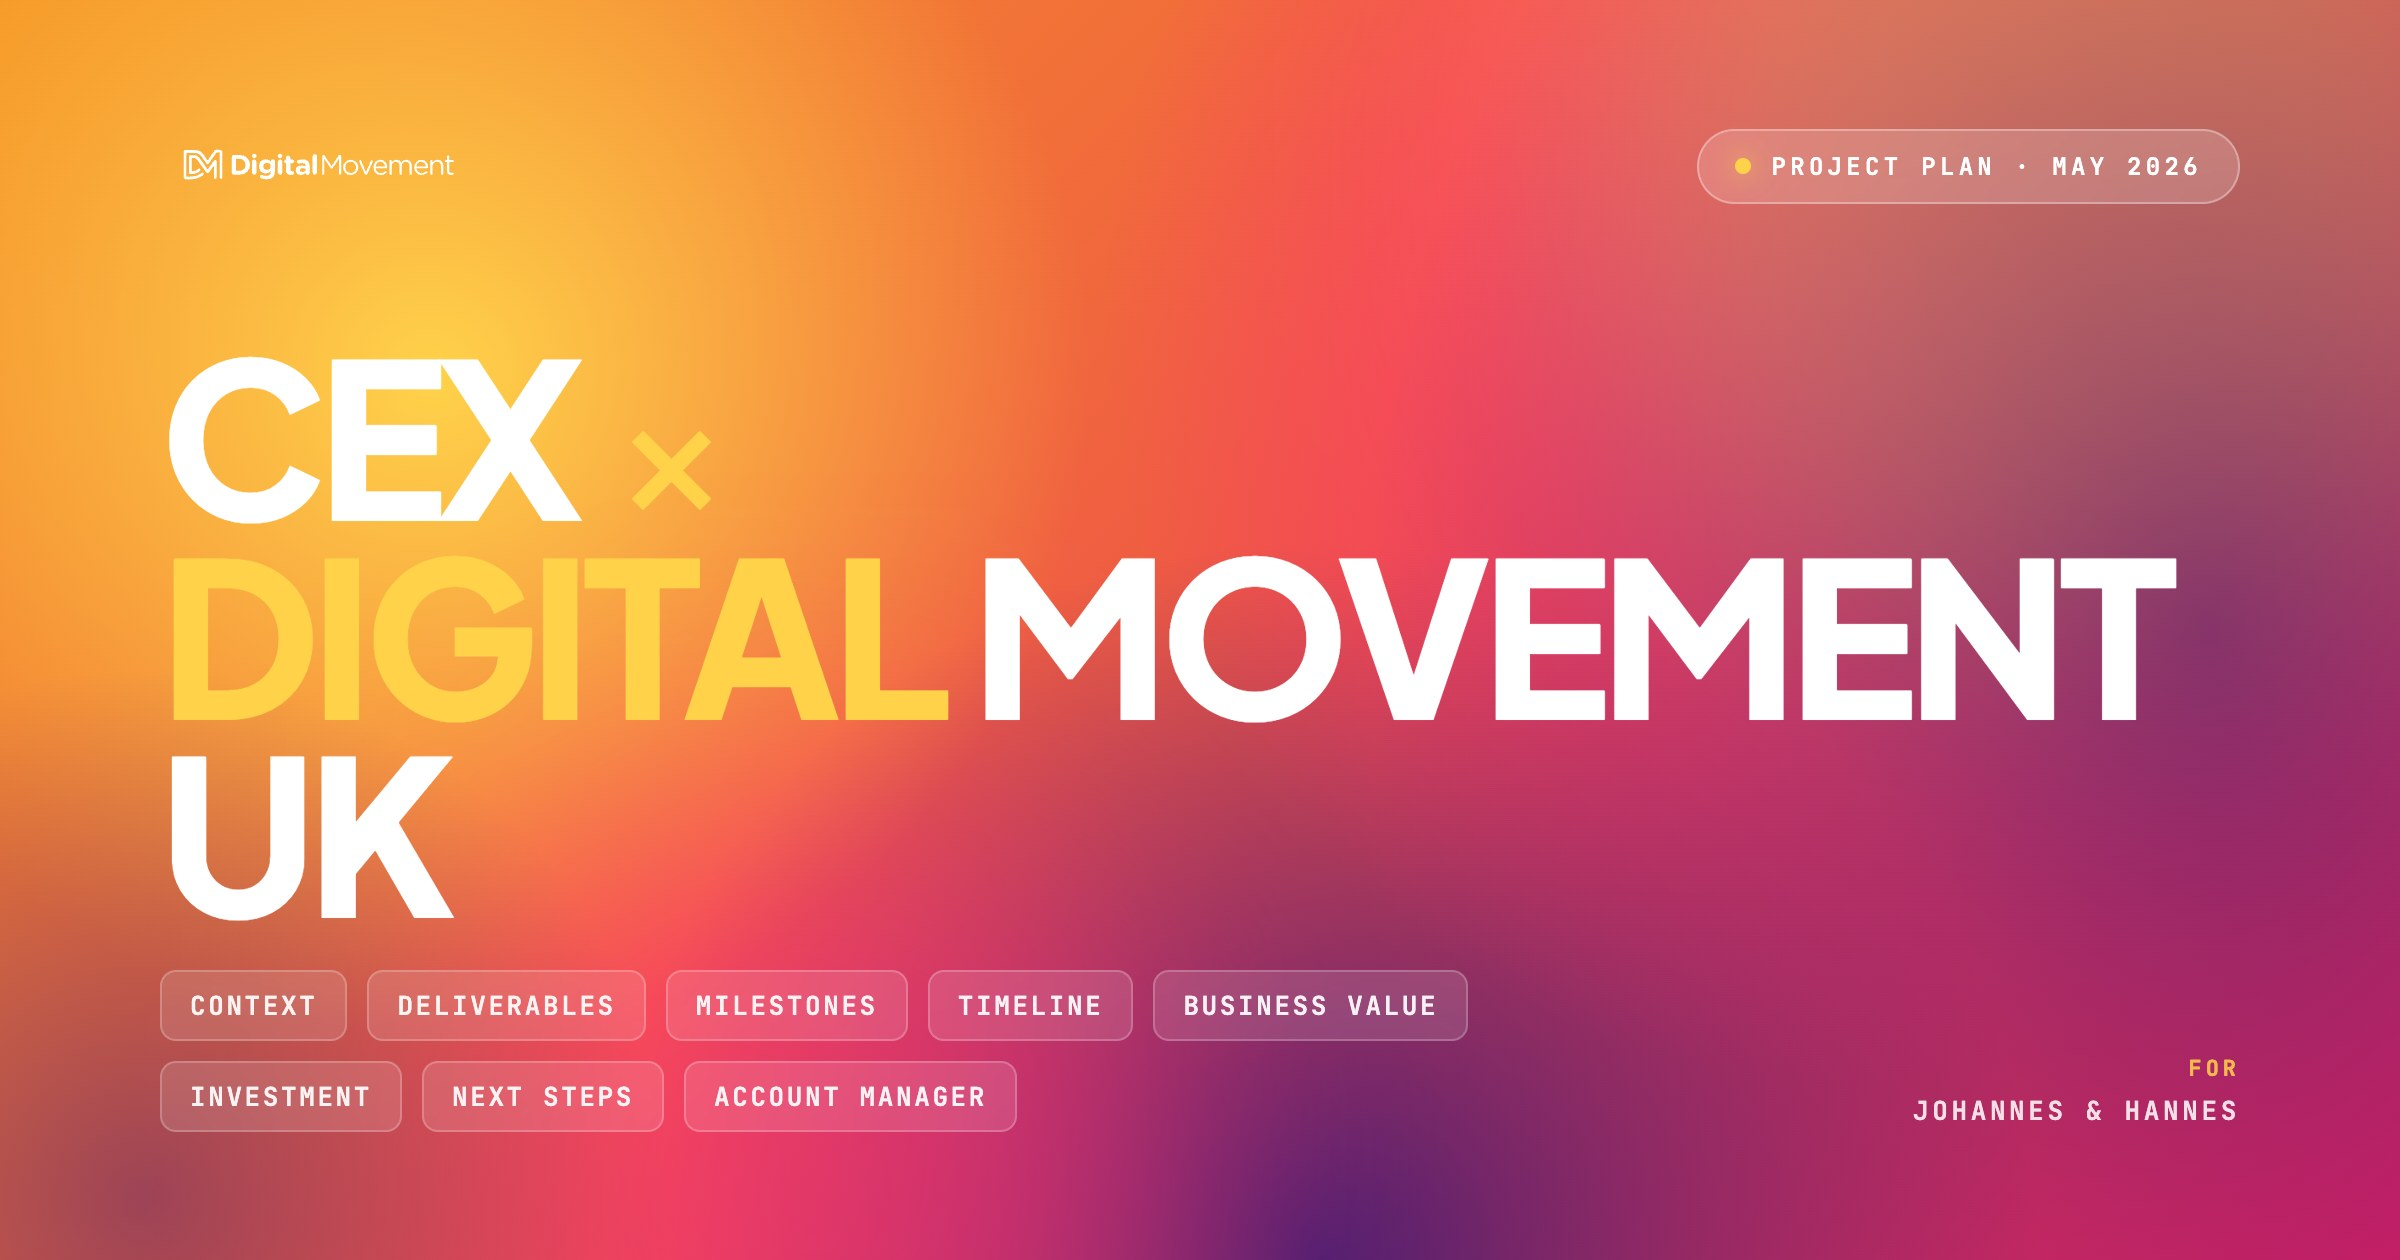
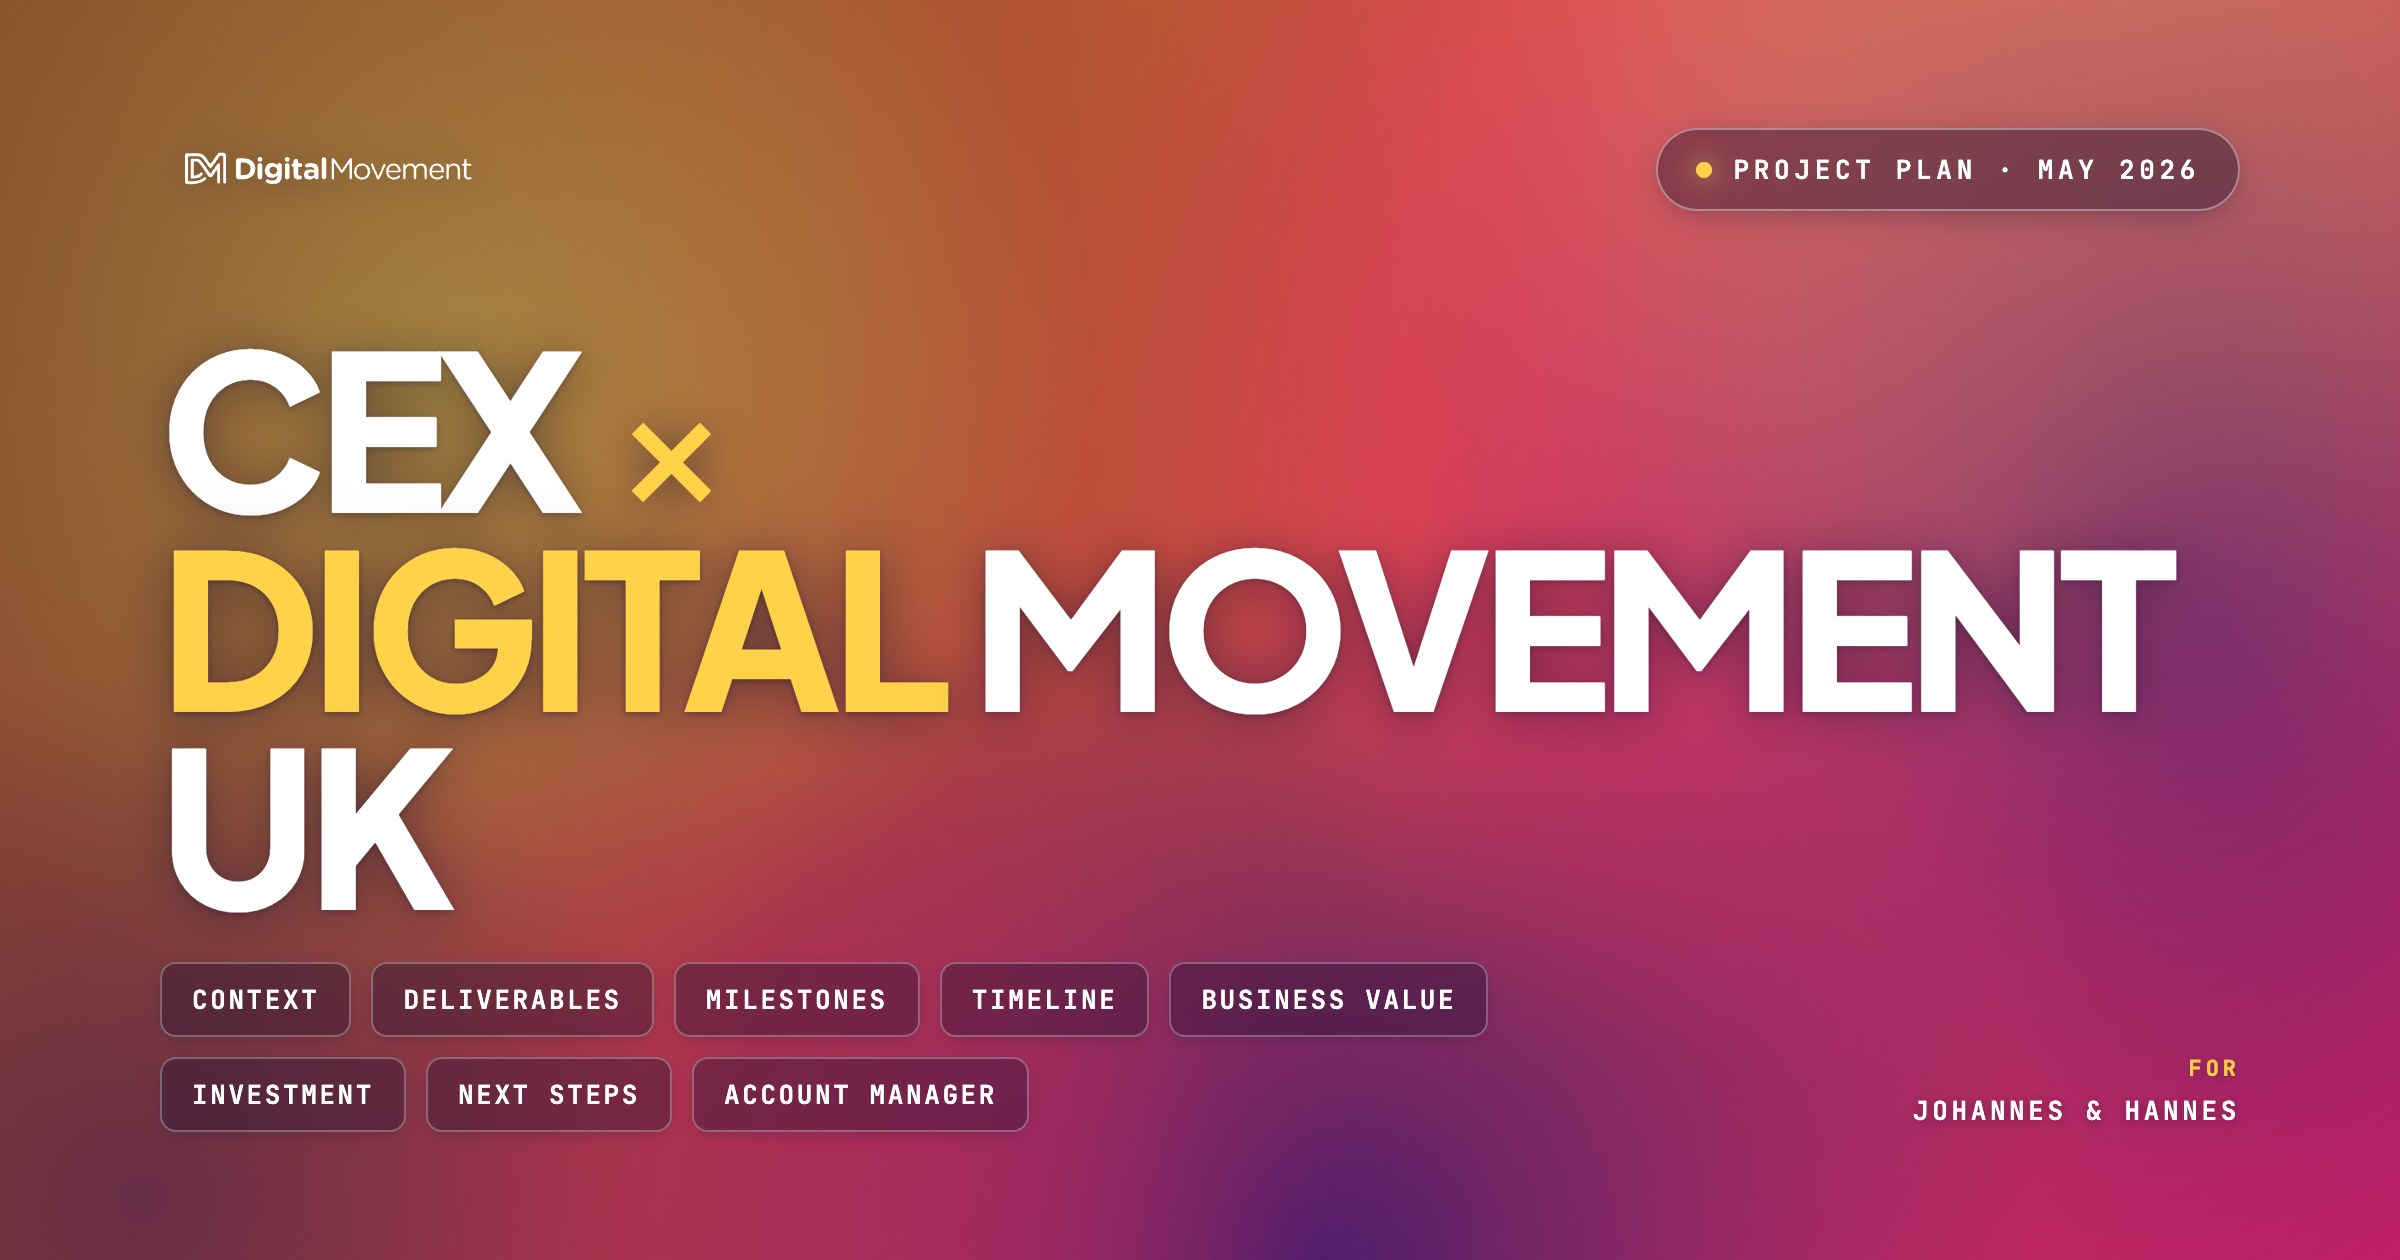
Refresh OG image to match updated hero treatment
- Re-rendered og-image.jpg (184 KB, still under WhatsApp 300 KB ceiling)
  with the same dark text-vignette + text-shadow polish applied to the
  live hero, so the share preview reads with the same contrast as the page
- Bumped og:image URL with ?v=2 so any client-side cached versions of the
  previous image are bypassed

diff --git a/project-plan/index.html b/project-plan/index.html
@@ -15,8 +15,8 @@
 <meta property="og:site_name" content="Digital Movement UK">
 <meta property="og:title" content="CEx x Digital Movement UK – Project Plan">
 <meta property="og:description" content="Context | Deliverables | Milestones | Timeline | Business Value Timeline | Investment | Next Steps | Account Manager">
-<meta property="og:image" content="https://digitalmovementuk.github.io/cx/project-plan/og-image.jpg">
-<meta property="og:image:secure_url" content="https://digitalmovementuk.github.io/cx/project-plan/og-image.jpg">
+<meta property="og:image" content="https://digitalmovementuk.github.io/cx/project-plan/og-image.jpg?v=2">
+<meta property="og:image:secure_url" content="https://digitalmovementuk.github.io/cx/project-plan/og-image.jpg?v=2">
 <meta property="og:image:type" content="image/jpeg">
 <meta property="og:image:width" content="1200">
 <meta property="og:image:height" content="630">
@@ -27,7 +27,7 @@
 <meta name="twitter:card" content="summary_large_image">
 <meta name="twitter:title" content="CEx x Digital Movement UK – Project Plan">
 <meta name="twitter:description" content="Context | Deliverables | Milestones | Timeline | Business Value Timeline | Investment | Next Steps | Account Manager">
-<meta name="twitter:image" content="https://digitalmovementuk.github.io/cx/project-plan/og-image.jpg">
+<meta name="twitter:image" content="https://digitalmovementuk.github.io/cx/project-plan/og-image.jpg?v=2">
 
 <link rel="preconnect" href="https://fonts.googleapis.com">
 <link rel="preconnect" href="https://fonts.gstatic.com" crossorigin>
